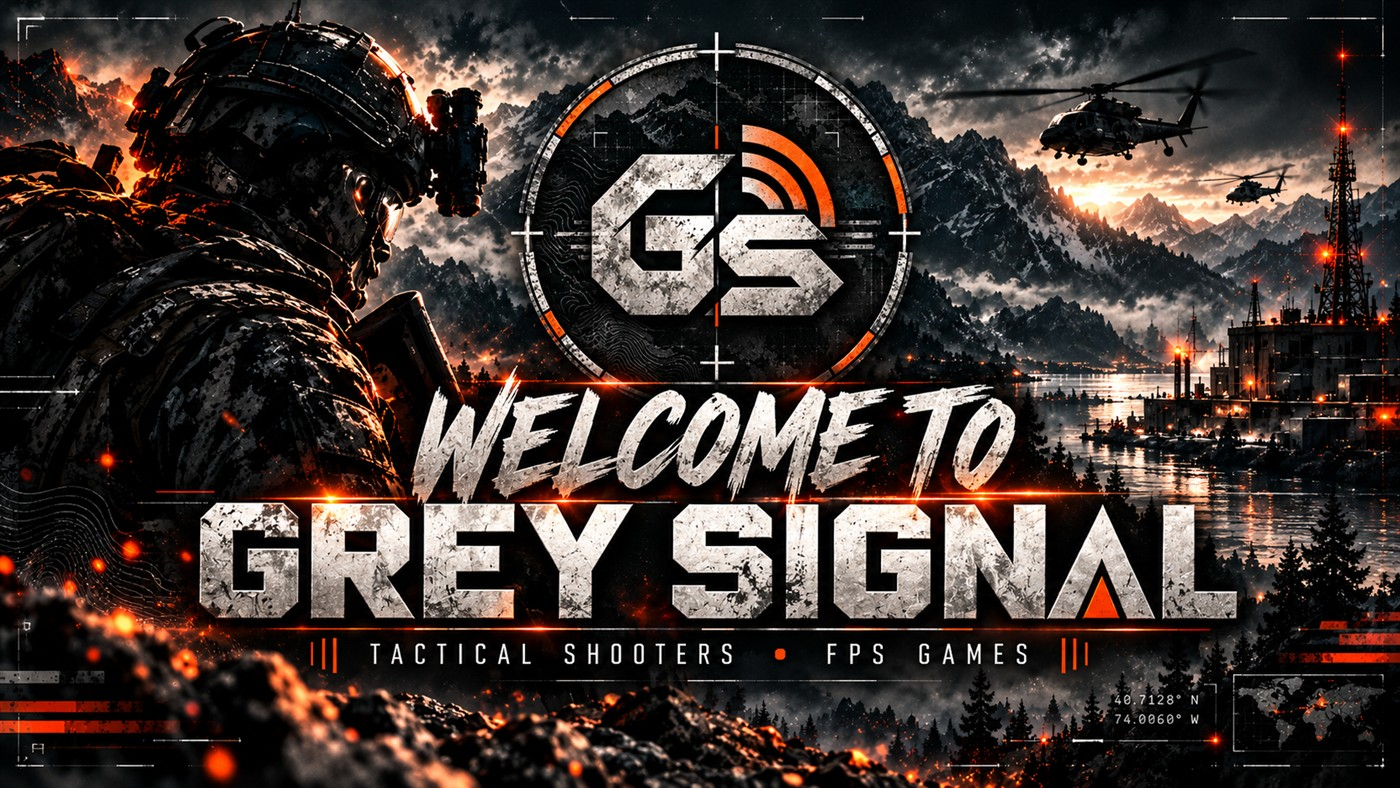
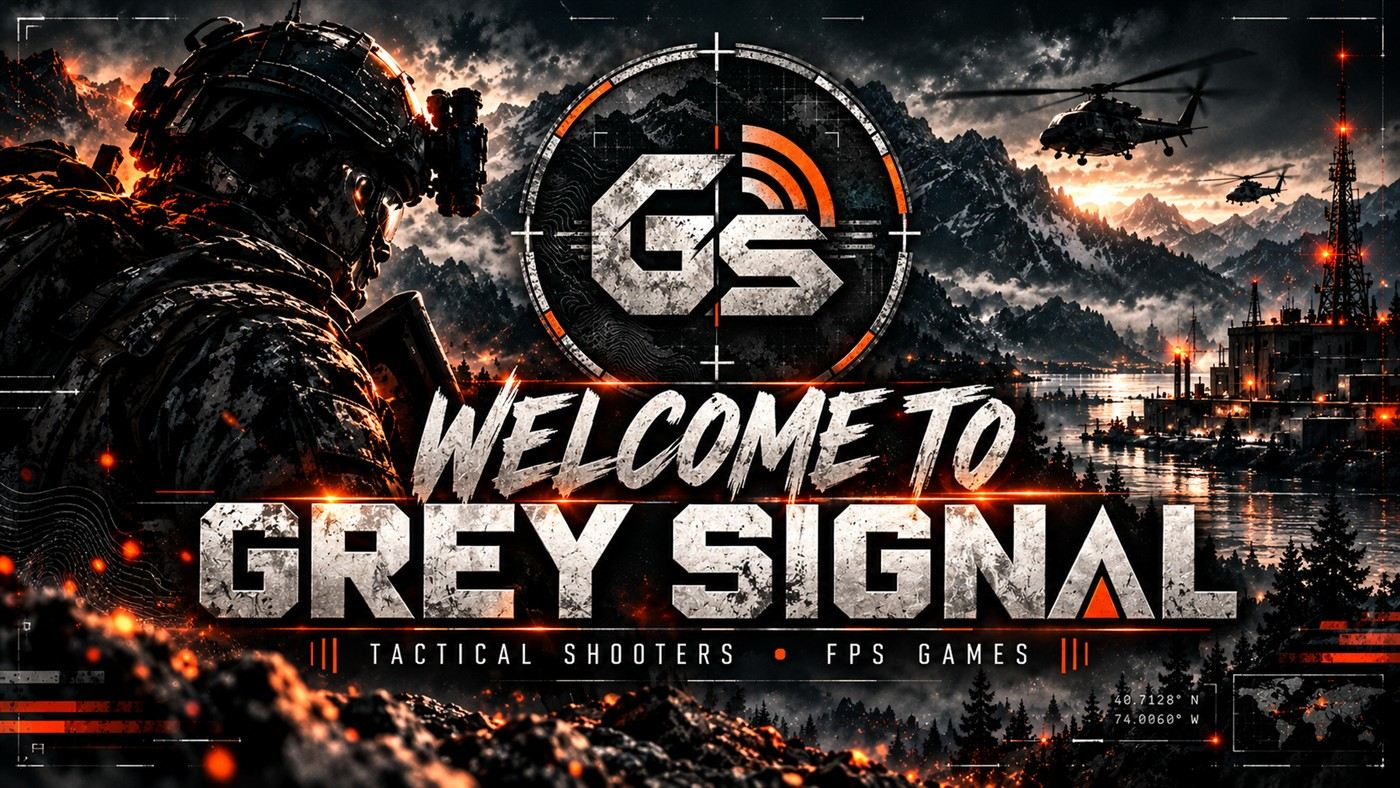
Optimise site: compressed images, social card and meta tags, cache headers, stricter checks, cleaner page modules

Changed region(s): [[0.0921, 0.2132, 0.1229, 0.2741], [0.2457, 0.4873, 0.2764, 0.5178]]

diff --git a/public/projects/rig-api/index.html b/public/projects/rig-api/index.html
@@ -8,12 +8,14 @@
 <meta name="description" content="Rig API and Windows tray app by Jaeger Stratton: show your PC or server specs and live load on your own website. For small sites and servers.">
 <meta name="author" content="Jaeger George Richard Stratton">
 <link rel="canonical" href="https://jaegergrs.com/projects/rig-api/">
-<meta property="og:type" content="website"><meta property="og:title" content="Rig API | Jaeger Stratton"><meta property="og:description" content="Rig API and Windows tray app by Jaeger Stratton: show your PC or server specs and live load on your own website. For small sites and servers."><meta property="og:url" content="https://jaegergrs.com/projects/rig-api/"><meta property="og:image" content="https://jaegergrs.com/assets/img/grey-signal-welcome.jpg">
+<meta property="og:type" content="website"><meta property="og:site_name" content="Jaeger Stratton"><meta property="og:locale" content="en_GB"><meta property="og:title" content="Rig API | Jaeger Stratton"><meta property="og:description" content="Rig API and Windows tray app by Jaeger Stratton: show your PC or server specs and live load on your own website. For small sites and servers."><meta property="og:url" content="https://jaegergrs.com/projects/rig-api/"><meta property="og:image" content="https://jaegergrs.com/assets/img/social-card.jpg"><meta property="og:image:width" content="1200"><meta property="og:image:height" content="630"><meta property="og:image:alt" content="Jaeger Stratton: PCs, systems, web and privacy software">
+<meta name="twitter:card" content="summary_large_image"><meta name="twitter:site" content="@JaegerGRS"><meta name="twitter:title" content="Rig API | Jaeger Stratton"><meta name="twitter:description" content="Rig API and Windows tray app by Jaeger Stratton: show your PC or server specs and live load on your own website. For small sites and servers."><meta name="twitter:image" content="https://jaegergrs.com/assets/img/social-card.jpg">
 <script src="../../assets/boot.js"></script>
 <link rel="icon" href="../../assets/favicon.svg" type="image/svg+xml">
 <link rel="preconnect" href="https://fonts.googleapis.com"><link rel="preconnect" href="https://fonts.gstatic.com" crossorigin>
 <link rel="stylesheet" href="https://fonts.googleapis.com/css2?family=DM+Sans:wght@400;500;700&family=Manrope:wght@500;700;800&display=swap">
 <link rel="stylesheet" href="../../assets/styles.css">
+<script type="application/ld+json">{"@context":"https://schema.org","@type":"SoftwareApplication","name":"Rig API","applicationCategory":"DeveloperApplication","operatingSystem":"Windows 10, Windows 11","description":"Live PC and server specs and load for your own website: a Cloudflare Worker API, a Windows tray app and a one-line embed. For small sites and servers.","author":{"@type":"Person","name":"Jaeger Stratton","url":"https://jaegergrs.com/"},"offers":[{"@type":"Offer","name":"Single site","price":"29","priceCurrency":"GBP"},{"@type":"Offer","name":"Done for you","price":"49","priceCurrency":"GBP"},{"@type":"Offer","name":"5-site licence","price":"79","priceCurrency":"GBP"}]}</script>
 </head>
 <body class="">
 <a class="skip" href="#main">Skip to main content</a>

diff --git a/public/index.html b/public/index.html
@@ -8,7 +8,8 @@
 <meta name="description" content="Jaeger George Richard Stratton: PC building and troubleshooting since 2015, Windows support, and independent software projects including Svart Security, Grey Signal, JaeTheTech and JAE. Based in Peterborough, UK.">
 <meta name="author" content="Jaeger George Richard Stratton">
 <link rel="canonical" href="https://jaegergrs.com/">
-<meta property="og:type" content="website"><meta property="og:title" content="Jaeger Stratton | PC Builder, Developer & Technician"><meta property="og:description" content="Jaeger George Richard Stratton: PC building and troubleshooting since 2015, Windows support, and independent software projects including Svart Security, Grey Signal, JaeTheTech and JAE. Based in Peterborough, UK."><meta property="og:url" content="https://jaegergrs.com/"><meta property="og:image" content="https://jaegergrs.com/assets/img/grey-signal-welcome.jpg">
+<meta property="og:type" content="website"><meta property="og:site_name" content="Jaeger Stratton"><meta property="og:locale" content="en_GB"><meta property="og:title" content="Jaeger Stratton | PC Builder, Developer & Technician"><meta property="og:description" content="Jaeger George Richard Stratton: PC building and troubleshooting since 2015, Windows support, and independent software projects including Svart Security, Grey Signal, JaeTheTech and JAE. Based in Peterborough, UK."><meta property="og:url" content="https://jaegergrs.com/"><meta property="og:image" content="https://jaegergrs.com/assets/img/social-card.jpg"><meta property="og:image:width" content="1200"><meta property="og:image:height" content="630"><meta property="og:image:alt" content="Jaeger Stratton: PCs, systems, web and privacy software">
+<meta name="twitter:card" content="summary_large_image"><meta name="twitter:site" content="@JaegerGRS"><meta name="twitter:title" content="Jaeger Stratton | PC Builder, Developer & Technician"><meta name="twitter:description" content="Jaeger George Richard Stratton: PC building and troubleshooting since 2015, Windows support, and independent software projects including Svart Security, Grey Signal, JaeTheTech and JAE. Based in Peterborough, UK."><meta name="twitter:image" content="https://jaegergrs.com/assets/img/social-card.jpg">
 <script src="assets/boot.js"></script>
 <link rel="icon" href="assets/favicon.svg" type="image/svg+xml">
 <link rel="preconnect" href="https://fonts.googleapis.com"><link rel="preconnect" href="https://fonts.gstatic.com" crossorigin>

diff --git a/public/projects/svart-security/index.html b/public/projects/svart-security/index.html
@@ -8,7 +8,8 @@
 <meta name="description" content="Svart Security: encrypted privacy tools built by one developer. No tracking, no telemetry, no ads. Case study and links to svartsecurity.org.">
 <meta name="author" content="Jaeger George Richard Stratton">
 <link rel="canonical" href="https://jaegergrs.com/projects/svart-security/">
-<meta property="og:type" content="website"><meta property="og:title" content="Svart Security | Jaeger Stratton"><meta property="og:description" content="Svart Security: encrypted privacy tools built by one developer. No tracking, no telemetry, no ads. Case study and links to svartsecurity.org."><meta property="og:url" content="https://jaegergrs.com/projects/svart-security/"><meta property="og:image" content="https://jaegergrs.com/assets/img/grey-signal-welcome.jpg">
+<meta property="og:type" content="website"><meta property="og:site_name" content="Jaeger Stratton"><meta property="og:locale" content="en_GB"><meta property="og:title" content="Svart Security | Jaeger Stratton"><meta property="og:description" content="Svart Security: encrypted privacy tools built by one developer. No tracking, no telemetry, no ads. Case study and links to svartsecurity.org."><meta property="og:url" content="https://jaegergrs.com/projects/svart-security/"><meta property="og:image" content="https://jaegergrs.com/assets/img/social-card.jpg"><meta property="og:image:width" content="1200"><meta property="og:image:height" content="630"><meta property="og:image:alt" content="Jaeger Stratton: PCs, systems, web and privacy software">
+<meta name="twitter:card" content="summary_large_image"><meta name="twitter:site" content="@JaegerGRS"><meta name="twitter:title" content="Svart Security | Jaeger Stratton"><meta name="twitter:description" content="Svart Security: encrypted privacy tools built by one developer. No tracking, no telemetry, no ads. Case study and links to svartsecurity.org."><meta name="twitter:image" content="https://jaegergrs.com/assets/img/social-card.jpg">
 <script src="../../assets/boot.js"></script>
 <link rel="icon" href="../../assets/favicon.svg" type="image/svg+xml">
 <link rel="preconnect" href="https://fonts.googleapis.com"><link rel="preconnect" href="https://fonts.gstatic.com" crossorigin>

diff --git a/public/projects/jaethetech/index.html b/public/projects/jaethetech/index.html
@@ -8,7 +8,8 @@
 <meta name="description" content="JaeTheTech: my personal tech site on writing code, building machines and breaking security, including the local-first Personal AI project.">
 <meta name="author" content="Jaeger George Richard Stratton">
 <link rel="canonical" href="https://jaegergrs.com/projects/jaethetech/">
-<meta property="og:type" content="website"><meta property="og:title" content="JaeTheTech | Jaeger Stratton"><meta property="og:description" content="JaeTheTech: my personal tech site on writing code, building machines and breaking security, including the local-first Personal AI project."><meta property="og:url" content="https://jaegergrs.com/projects/jaethetech/"><meta property="og:image" content="https://jaegergrs.com/assets/img/grey-signal-welcome.jpg">
+<meta property="og:type" content="website"><meta property="og:site_name" content="Jaeger Stratton"><meta property="og:locale" content="en_GB"><meta property="og:title" content="JaeTheTech | Jaeger Stratton"><meta property="og:description" content="JaeTheTech: my personal tech site on writing code, building machines and breaking security, including the local-first Personal AI project."><meta property="og:url" content="https://jaegergrs.com/projects/jaethetech/"><meta property="og:image" content="https://jaegergrs.com/assets/img/social-card.jpg"><meta property="og:image:width" content="1200"><meta property="og:image:height" content="630"><meta property="og:image:alt" content="Jaeger Stratton: PCs, systems, web and privacy software">
+<meta name="twitter:card" content="summary_large_image"><meta name="twitter:site" content="@JaegerGRS"><meta name="twitter:title" content="JaeTheTech | Jaeger Stratton"><meta name="twitter:description" content="JaeTheTech: my personal tech site on writing code, building machines and breaking security, including the local-first Personal AI project."><meta name="twitter:image" content="https://jaegergrs.com/assets/img/social-card.jpg">
 <script src="../../assets/boot.js"></script>
 <link rel="icon" href="../../assets/favicon.svg" type="image/svg+xml">
 <link rel="preconnect" href="https://fonts.googleapis.com"><link rel="preconnect" href="https://fonts.gstatic.com" crossorigin>

diff --git a/public/projects/jae/index.html b/public/projects/jae/index.html
@@ -8,7 +8,8 @@
 <meta name="description" content="JAE (Jaeger Adaptive Engine): a private, local-first AI desktop app built with Tauri, with MSI builds and GitHub-based updates.">
 <meta name="author" content="Jaeger George Richard Stratton">
 <link rel="canonical" href="https://jaegergrs.com/projects/jae/">
-<meta property="og:type" content="website"><meta property="og:title" content="JAE: Jaeger Adaptive Engine | Jaeger Stratton"><meta property="og:description" content="JAE (Jaeger Adaptive Engine): a private, local-first AI desktop app built with Tauri, with MSI builds and GitHub-based updates."><meta property="og:url" content="https://jaegergrs.com/projects/jae/"><meta property="og:image" content="https://jaegergrs.com/assets/img/grey-signal-welcome.jpg">
+<meta property="og:type" content="website"><meta property="og:site_name" content="Jaeger Stratton"><meta property="og:locale" content="en_GB"><meta property="og:title" content="JAE: Jaeger Adaptive Engine | Jaeger Stratton"><meta property="og:description" content="JAE (Jaeger Adaptive Engine): a private, local-first AI desktop app built with Tauri, with MSI builds and GitHub-based updates."><meta property="og:url" content="https://jaegergrs.com/projects/jae/"><meta property="og:image" content="https://jaegergrs.com/assets/img/social-card.jpg"><meta property="og:image:width" content="1200"><meta property="og:image:height" content="630"><meta property="og:image:alt" content="Jaeger Stratton: PCs, systems, web and privacy software">
+<meta name="twitter:card" content="summary_large_image"><meta name="twitter:site" content="@JaegerGRS"><meta name="twitter:title" content="JAE: Jaeger Adaptive Engine | Jaeger Stratton"><meta name="twitter:description" content="JAE (Jaeger Adaptive Engine): a private, local-first AI desktop app built with Tauri, with MSI builds and GitHub-based updates."><meta name="twitter:image" content="https://jaegergrs.com/assets/img/social-card.jpg">
 <script src="../../assets/boot.js"></script>
 <link rel="icon" href="../../assets/favicon.svg" type="image/svg+xml">
 <link rel="preconnect" href="https://fonts.googleapis.com"><link rel="preconnect" href="https://fonts.gstatic.com" crossorigin>

diff --git a/public/projects/grey-signal/index.html b/public/projects/grey-signal/index.html
@@ -8,7 +8,8 @@
 <meta name="description" content="Grey Signal: a tactical-shooter and FPS channel with its own multi-page website and live PC telemetry, built by Jaeger Stratton.">
 <meta name="author" content="Jaeger George Richard Stratton">
 <link rel="canonical" href="https://jaegergrs.com/projects/grey-signal/">
-<meta property="og:type" content="website"><meta property="og:title" content="Grey Signal | Jaeger Stratton"><meta property="og:description" content="Grey Signal: a tactical-shooter and FPS channel with its own multi-page website and live PC telemetry, built by Jaeger Stratton."><meta property="og:url" content="https://jaegergrs.com/projects/grey-signal/"><meta property="og:image" content="https://jaegergrs.com/assets/img/grey-signal-welcome.jpg">
+<meta property="og:type" content="website"><meta property="og:site_name" content="Jaeger Stratton"><meta property="og:locale" content="en_GB"><meta property="og:title" content="Grey Signal | Jaeger Stratton"><meta property="og:description" content="Grey Signal: a tactical-shooter and FPS channel with its own multi-page website and live PC telemetry, built by Jaeger Stratton."><meta property="og:url" content="https://jaegergrs.com/projects/grey-signal/"><meta property="og:image" content="https://jaegergrs.com/assets/img/social-card.jpg"><meta property="og:image:width" content="1200"><meta property="og:image:height" content="630"><meta property="og:image:alt" content="Jaeger Stratton: PCs, systems, web and privacy software">
+<meta name="twitter:card" content="summary_large_image"><meta name="twitter:site" content="@JaegerGRS"><meta name="twitter:title" content="Grey Signal | Jaeger Stratton"><meta name="twitter:description" content="Grey Signal: a tactical-shooter and FPS channel with its own multi-page website and live PC telemetry, built by Jaeger Stratton."><meta name="twitter:image" content="https://jaegergrs.com/assets/img/social-card.jpg">
 <script src="../../assets/boot.js"></script>
 <link rel="icon" href="../../assets/favicon.svg" type="image/svg+xml">
 <link rel="preconnect" href="https://fonts.googleapis.com"><link rel="preconnect" href="https://fonts.gstatic.com" crossorigin>

diff --git a/public/about/index.html b/public/about/index.html
@@ -8,7 +8,8 @@
 <meta name="description" content="About Jaeger Stratton: self-taught PC builder, troubleshooter and developer based in Peterborough, UK, open to opportunities worldwide.">
 <meta name="author" content="Jaeger George Richard Stratton">
 <link rel="canonical" href="https://jaegergrs.com/about/">
-<meta property="og:type" content="website"><meta property="og:title" content="About | Jaeger Stratton"><meta property="og:description" content="About Jaeger Stratton: self-taught PC builder, troubleshooter and developer based in Peterborough, UK, open to opportunities worldwide."><meta property="og:url" content="https://jaegergrs.com/about/"><meta property="og:image" content="https://jaegergrs.com/assets/img/grey-signal-welcome.jpg">
+<meta property="og:type" content="website"><meta property="og:site_name" content="Jaeger Stratton"><meta property="og:locale" content="en_GB"><meta property="og:title" content="About | Jaeger Stratton"><meta property="og:description" content="About Jaeger Stratton: self-taught PC builder, troubleshooter and developer based in Peterborough, UK, open to opportunities worldwide."><meta property="og:url" content="https://jaegergrs.com/about/"><meta property="og:image" content="https://jaegergrs.com/assets/img/social-card.jpg"><meta property="og:image:width" content="1200"><meta property="og:image:height" content="630"><meta property="og:image:alt" content="Jaeger Stratton: PCs, systems, web and privacy software">
+<meta name="twitter:card" content="summary_large_image"><meta name="twitter:site" content="@JaegerGRS"><meta name="twitter:title" content="About | Jaeger Stratton"><meta name="twitter:description" content="About Jaeger Stratton: self-taught PC builder, troubleshooter and developer based in Peterborough, UK, open to opportunities worldwide."><meta name="twitter:image" content="https://jaegergrs.com/assets/img/social-card.jpg">
 <script src="../assets/boot.js"></script>
 <link rel="icon" href="../assets/favicon.svg" type="image/svg+xml">
 <link rel="preconnect" href="https://fonts.googleapis.com"><link rel="preconnect" href="https://fonts.gstatic.com" crossorigin>

diff --git a/public/projects/hardware/index.html b/public/projects/hardware/index.html
@@ -8,7 +8,8 @@
 <meta name="description" content="PC building, Windows setup and methodical troubleshooting since 2015, plus the Ryzen 9 5950X / RTX 3070 Ti workstation.">
 <meta name="author" content="Jaeger George Richard Stratton">
 <link rel="canonical" href="https://jaegergrs.com/projects/hardware/">
-<meta property="og:type" content="website"><meta property="og:title" content="PC Hardware | Jaeger Stratton"><meta property="og:description" content="PC building, Windows setup and methodical troubleshooting since 2015, plus the Ryzen 9 5950X / RTX 3070 Ti workstation."><meta property="og:url" content="https://jaegergrs.com/projects/hardware/"><meta property="og:image" content="https://jaegergrs.com/assets/img/grey-signal-welcome.jpg">
+<meta property="og:type" content="website"><meta property="og:site_name" content="Jaeger Stratton"><meta property="og:locale" content="en_GB"><meta property="og:title" content="PC Hardware | Jaeger Stratton"><meta property="og:description" content="PC building, Windows setup and methodical troubleshooting since 2015, plus the Ryzen 9 5950X / RTX 3070 Ti workstation."><meta property="og:url" content="https://jaegergrs.com/projects/hardware/"><meta property="og:image" content="https://jaegergrs.com/assets/img/social-card.jpg"><meta property="og:image:width" content="1200"><meta property="og:image:height" content="630"><meta property="og:image:alt" content="Jaeger Stratton: PCs, systems, web and privacy software">
+<meta name="twitter:card" content="summary_large_image"><meta name="twitter:site" content="@JaegerGRS"><meta name="twitter:title" content="PC Hardware | Jaeger Stratton"><meta name="twitter:description" content="PC building, Windows setup and methodical troubleshooting since 2015, plus the Ryzen 9 5950X / RTX 3070 Ti workstation."><meta name="twitter:image" content="https://jaegergrs.com/assets/img/social-card.jpg">
 <script src="../../assets/boot.js"></script>
 <link rel="icon" href="../../assets/favicon.svg" type="image/svg+xml">
 <link rel="preconnect" href="https://fonts.googleapis.com"><link rel="preconnect" href="https://fonts.gstatic.com" crossorigin>

diff --git a/public/about/journey/index.html b/public/about/journey/index.html
@@ -8,7 +8,8 @@
 <meta name="description" content="A practical technical journey from PC hardware experimentation into software, security and independent projects.">
 <meta name="author" content="Jaeger George Richard Stratton">
 <link rel="canonical" href="https://jaegergrs.com/about/journey/">
-<meta property="og:type" content="website"><meta property="og:title" content="My Journey | Jaeger Stratton"><meta property="og:description" content="A practical technical journey from PC hardware experimentation into software, security and independent projects."><meta property="og:url" content="https://jaegergrs.com/about/journey/"><meta property="og:image" content="https://jaegergrs.com/assets/img/grey-signal-welcome.jpg">
+<meta property="og:type" content="website"><meta property="og:site_name" content="Jaeger Stratton"><meta property="og:locale" content="en_GB"><meta property="og:title" content="My Journey | Jaeger Stratton"><meta property="og:description" content="A practical technical journey from PC hardware experimentation into software, security and independent projects."><meta property="og:url" content="https://jaegergrs.com/about/journey/"><meta property="og:image" content="https://jaegergrs.com/assets/img/social-card.jpg"><meta property="og:image:width" content="1200"><meta property="og:image:height" content="630"><meta property="og:image:alt" content="Jaeger Stratton: PCs, systems, web and privacy software">
+<meta name="twitter:card" content="summary_large_image"><meta name="twitter:site" content="@JaegerGRS"><meta name="twitter:title" content="My Journey | Jaeger Stratton"><meta name="twitter:description" content="A practical technical journey from PC hardware experimentation into software, security and independent projects."><meta name="twitter:image" content="https://jaegergrs.com/assets/img/social-card.jpg">
 <script src="../../assets/boot.js"></script>
 <link rel="icon" href="../../assets/favicon.svg" type="image/svg+xml">
 <link rel="preconnect" href="https://fonts.googleapis.com"><link rel="preconnect" href="https://fonts.gstatic.com" crossorigin>

diff --git a/public/contact/index.html b/public/contact/index.html
@@ -8,7 +8,8 @@
 <meta name="description" content="Contact Jaeger Stratton about IT technician, PC assembly and technical support roles or development projects.">
 <meta name="author" content="Jaeger George Richard Stratton">
 <link rel="canonical" href="https://jaegergrs.com/contact/">
-<meta property="og:type" content="website"><meta property="og:title" content="Contact | Jaeger Stratton"><meta property="og:description" content="Contact Jaeger Stratton about IT technician, PC assembly and technical support roles or development projects."><meta property="og:url" content="https://jaegergrs.com/contact/"><meta property="og:image" content="https://jaegergrs.com/assets/img/grey-signal-welcome.jpg">
+<meta property="og:type" content="website"><meta property="og:site_name" content="Jaeger Stratton"><meta property="og:locale" content="en_GB"><meta property="og:title" content="Contact | Jaeger Stratton"><meta property="og:description" content="Contact Jaeger Stratton about IT technician, PC assembly and technical support roles or development projects."><meta property="og:url" content="https://jaegergrs.com/contact/"><meta property="og:image" content="https://jaegergrs.com/assets/img/social-card.jpg"><meta property="og:image:width" content="1200"><meta property="og:image:height" content="630"><meta property="og:image:alt" content="Jaeger Stratton: PCs, systems, web and privacy software">
+<meta name="twitter:card" content="summary_large_image"><meta name="twitter:site" content="@JaegerGRS"><meta name="twitter:title" content="Contact | Jaeger Stratton"><meta name="twitter:description" content="Contact Jaeger Stratton about IT technician, PC assembly and technical support roles or development projects."><meta name="twitter:image" content="https://jaegergrs.com/assets/img/social-card.jpg">
 <script src="../assets/boot.js"></script>
 <link rel="icon" href="../assets/favicon.svg" type="image/svg+xml">
 <link rel="preconnect" href="https://fonts.googleapis.com"><link rel="preconnect" href="https://fonts.gstatic.com" crossorigin>

diff --git a/public/expertise/development/index.html b/public/expertise/development/index.html
@@ -8,7 +8,8 @@
 <meta name="description" content="Lean interfaces, custom frontend development and Git-based Cloudflare deployment workflows.">
 <meta name="author" content="Jaeger George Richard Stratton">
 <link rel="canonical" href="https://jaegergrs.com/expertise/development/">
-<meta property="og:type" content="website"><meta property="og:title" content="Web & Software | Jaeger Stratton"><meta property="og:description" content="Lean interfaces, custom frontend development and Git-based Cloudflare deployment workflows."><meta property="og:url" content="https://jaegergrs.com/expertise/development/"><meta property="og:image" content="https://jaegergrs.com/assets/img/grey-signal-welcome.jpg">
+<meta property="og:type" content="website"><meta property="og:site_name" content="Jaeger Stratton"><meta property="og:locale" content="en_GB"><meta property="og:title" content="Web & Software | Jaeger Stratton"><meta property="og:description" content="Lean interfaces, custom frontend development and Git-based Cloudflare deployment workflows."><meta property="og:url" content="https://jaegergrs.com/expertise/development/"><meta property="og:image" content="https://jaegergrs.com/assets/img/social-card.jpg"><meta property="og:image:width" content="1200"><meta property="og:image:height" content="630"><meta property="og:image:alt" content="Jaeger Stratton: PCs, systems, web and privacy software">
+<meta name="twitter:card" content="summary_large_image"><meta name="twitter:site" content="@JaegerGRS"><meta name="twitter:title" content="Web & Software | Jaeger Stratton"><meta name="twitter:description" content="Lean interfaces, custom frontend development and Git-based Cloudflare deployment workflows."><meta name="twitter:image" content="https://jaegergrs.com/assets/img/social-card.jpg">
 <script src="../../assets/boot.js"></script>
 <link rel="icon" href="../../assets/favicon.svg" type="image/svg+xml">
 <link rel="preconnect" href="https://fonts.googleapis.com"><link rel="preconnect" href="https://fonts.gstatic.com" crossorigin>

diff --git a/public/expertise/index.html b/public/expertise/index.html
@@ -8,7 +8,8 @@
 <meta name="description" content="Practical hardware, Windows, web and software skills from independent projects and hands-on practice.">
 <meta name="author" content="Jaeger George Richard Stratton">
 <link rel="canonical" href="https://jaegergrs.com/expertise/">
-<meta property="og:type" content="website"><meta property="og:title" content="Expertise | Jaeger Stratton"><meta property="og:description" content="Practical hardware, Windows, web and software skills from independent projects and hands-on practice."><meta property="og:url" content="https://jaegergrs.com/expertise/"><meta property="og:image" content="https://jaegergrs.com/assets/img/grey-signal-welcome.jpg">
+<meta property="og:type" content="website"><meta property="og:site_name" content="Jaeger Stratton"><meta property="og:locale" content="en_GB"><meta property="og:title" content="Expertise | Jaeger Stratton"><meta property="og:description" content="Practical hardware, Windows, web and software skills from independent projects and hands-on practice."><meta property="og:url" content="https://jaegergrs.com/expertise/"><meta property="og:image" content="https://jaegergrs.com/assets/img/social-card.jpg"><meta property="og:image:width" content="1200"><meta property="og:image:height" content="630"><meta property="og:image:alt" content="Jaeger Stratton: PCs, systems, web and privacy software">
+<meta name="twitter:card" content="summary_large_image"><meta name="twitter:site" content="@JaegerGRS"><meta name="twitter:title" content="Expertise | Jaeger Stratton"><meta name="twitter:description" content="Practical hardware, Windows, web and software skills from independent projects and hands-on practice."><meta name="twitter:image" content="https://jaegergrs.com/assets/img/social-card.jpg">
 <script src="../assets/boot.js"></script>
 <link rel="icon" href="../assets/favicon.svg" type="image/svg+xml">
 <link rel="preconnect" href="https://fonts.googleapis.com"><link rel="preconnect" href="https://fonts.gstatic.com" crossorigin>
